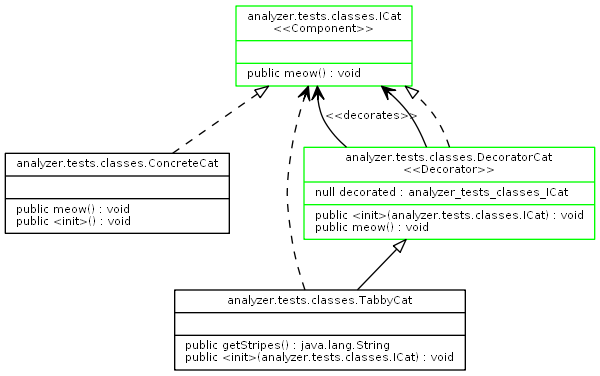
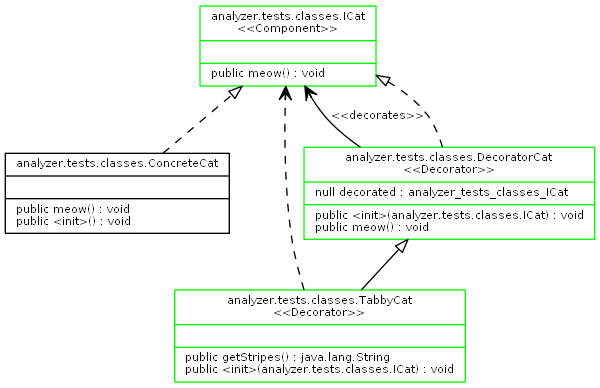
Decorator now propagates down to decorator subclasses

diff --git a/AsmAnalyzer/src/analyzer/visitor/detect/DecoratorSubclassDetector.java b/AsmAnalyzer/src/analyzer/visitor/detect/DecoratorSubclassDetector.java
@@ -1,0 +1,75 @@
+package analyzer.visitor.detect;
+
+import java.io.FilterOutputStream;
+import java.io.IOException;
+import java.io.OutputStream;
+import java.util.ArrayList;
+import java.util.Collection;
+import java.util.HashMap;
+import java.util.HashSet;
+import java.util.Iterator;
+import java.util.Map;
+import java.util.Map.Entry;
+import java.util.Set;
+
+import analyzer.common.ClassNameStandardizer;
+import analyzer.model.AccessLevel;
+import analyzer.model.IClass;
+import analyzer.model.IField;
+import analyzer.model.IFieldStatement;
+import analyzer.model.IMethod;
+import analyzer.model.IMethodStatement;
+import analyzer.model.IModel;
+import analyzer.model.IRelation;
+import analyzer.model.IStatement;
+import analyzer.model.Relation;
+import analyzer.model.RelationType;
+import analyzer.model.StatementType;
+import analyzer.model.pattern.ComponentClass;
+import analyzer.model.pattern.DecoratesRelation;
+import analyzer.model.pattern.DecoratorClass;
+import analyzer.model.pattern.SingletonClass;
+import analyzer.visitor.common.ITraverser;
+import analyzer.visitor.common.IVisitMethod;
+import analyzer.visitor.common.IVisitor;
+import analyzer.visitor.common.VisitType;
+import analyzer.visitor.common.Visitor;
+
+public class DecoratorSubclassDetector {
+	
+	private final IVisitor visitor;
+	private IModel model;
+
+	public DecoratorSubclassDetector() {
+		this.visitor = new Visitor();
+		this.setupPreVisitClass();
+	}
+	
+	public void detect(IModel model) {
+		this.model = model;
+		model.accept(this.visitor);
+	}
+	
+	private void setupPreVisitClass() {
+		IVisitMethod command = new IVisitMethod() {
+			@Override
+			public void execute(ITraverser t) {
+				IClass c = (IClass)t;
+				if (isDecorator(c))
+					model.addClass(new DecoratorClass(c));
+			}
+		};
+		this.visitor.addVisit(VisitType.PreVisit, IClass.class, command);
+	}
+
+	private boolean isDecorator(IClass c) {
+		IClass superClass = c.getSuperClass();
+		if (superClass == null)
+			return false;
+		if (superClass instanceof DecoratorClass)
+			return true;
+		return isDecorator(superClass);
+	}
+	
+
+}

diff --git a/AsmAnalyzer/src/analyzer/client/DesignParser.java b/AsmAnalyzer/src/analyzer/client/DesignParser.java
@@ -17,6 +17,7 @@ import analyzer.model.IClass;
 import analyzer.model.IModel;
 import analyzer.model.Model;
 import analyzer.visitor.detect.DecoratorDetector;
+import analyzer.visitor.detect.DecoratorSubclassDetector;
 import analyzer.visitor.detect.SingletonDetector;
 import analyzer.visitor.output.ClassUmlOutputStream;
 
@@ -67,6 +68,10 @@ public class DesignParser {
 		
 		DecoratorDetector dd = new DecoratorDetector();
 		dd.detect(model);
+		
+		// Propagates detection down to subclasses
+		DecoratorSubclassDetector dsd = new DecoratorSubclassDetector();
+		dsd.detect(model);
 		
 		ClassUmlOutputStream classUmlOutputStream = new ClassUmlOutputStream(System.out);
 		
